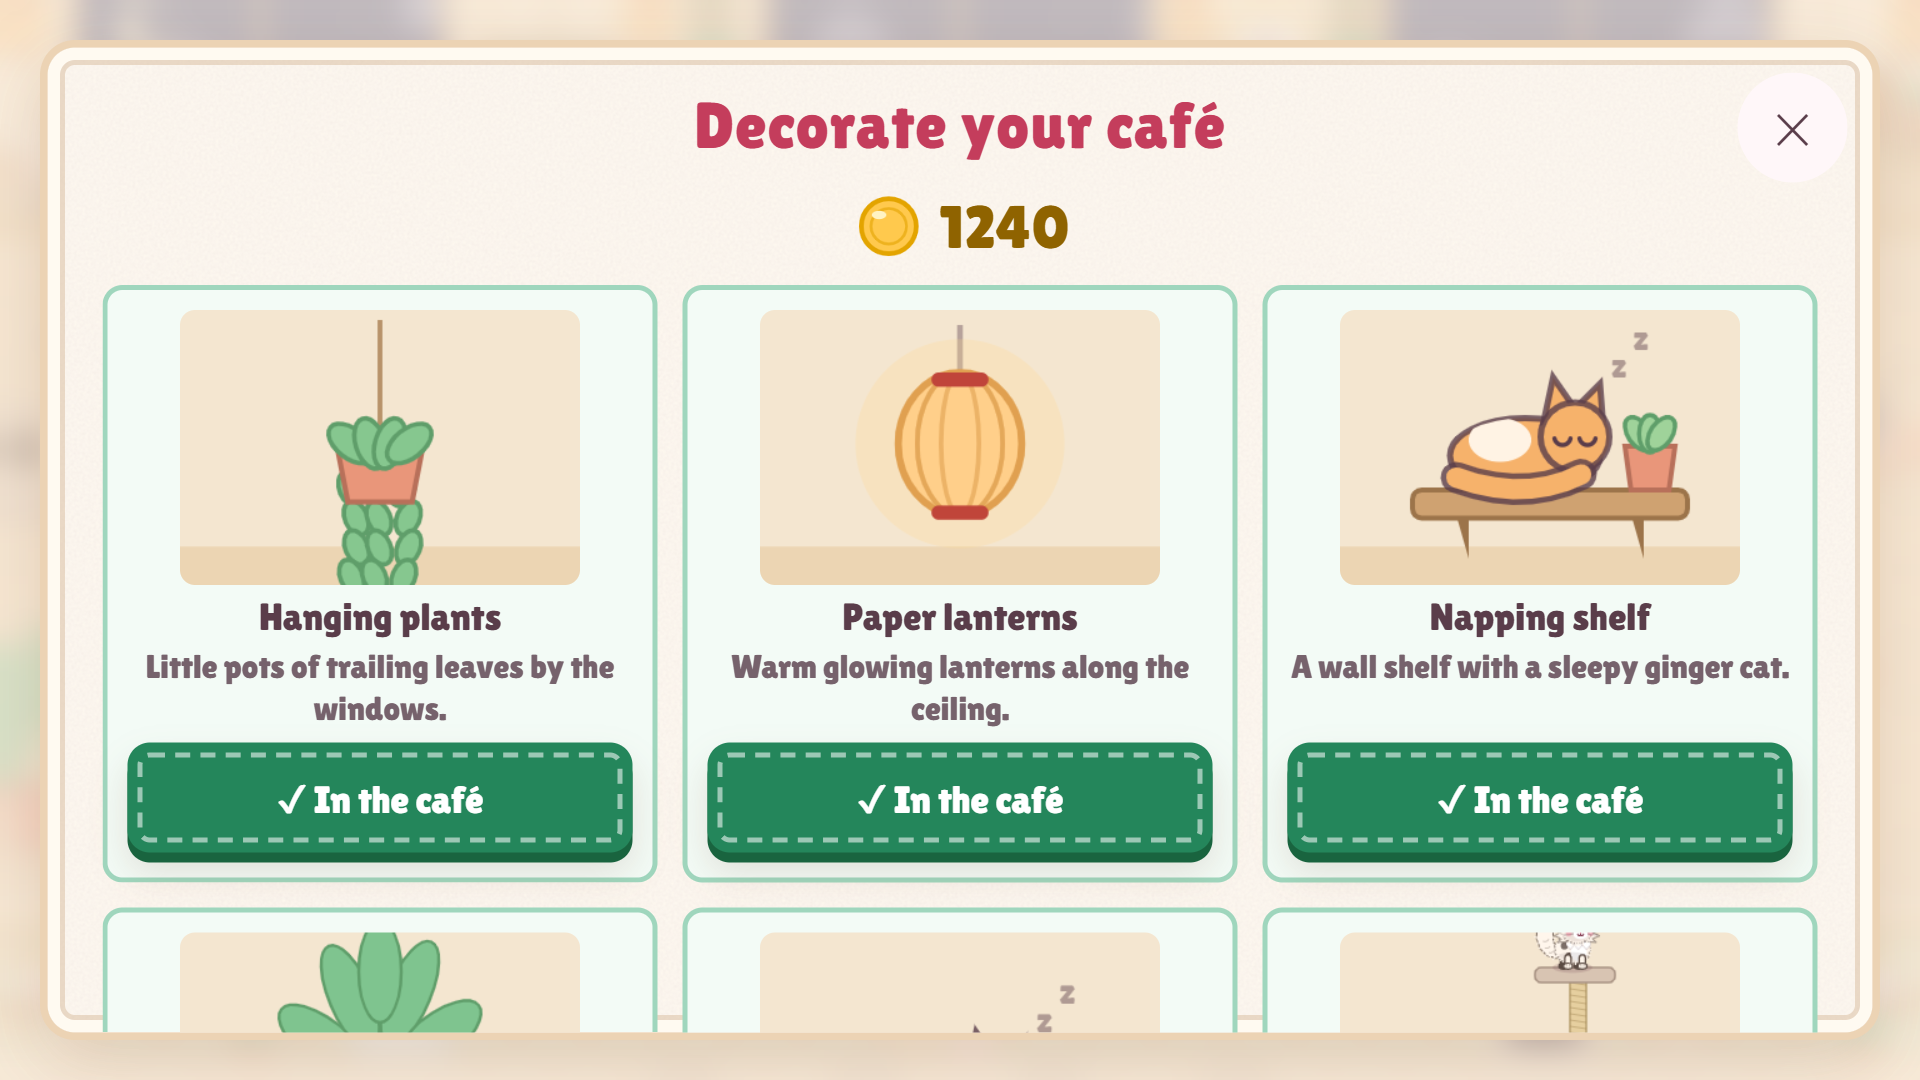
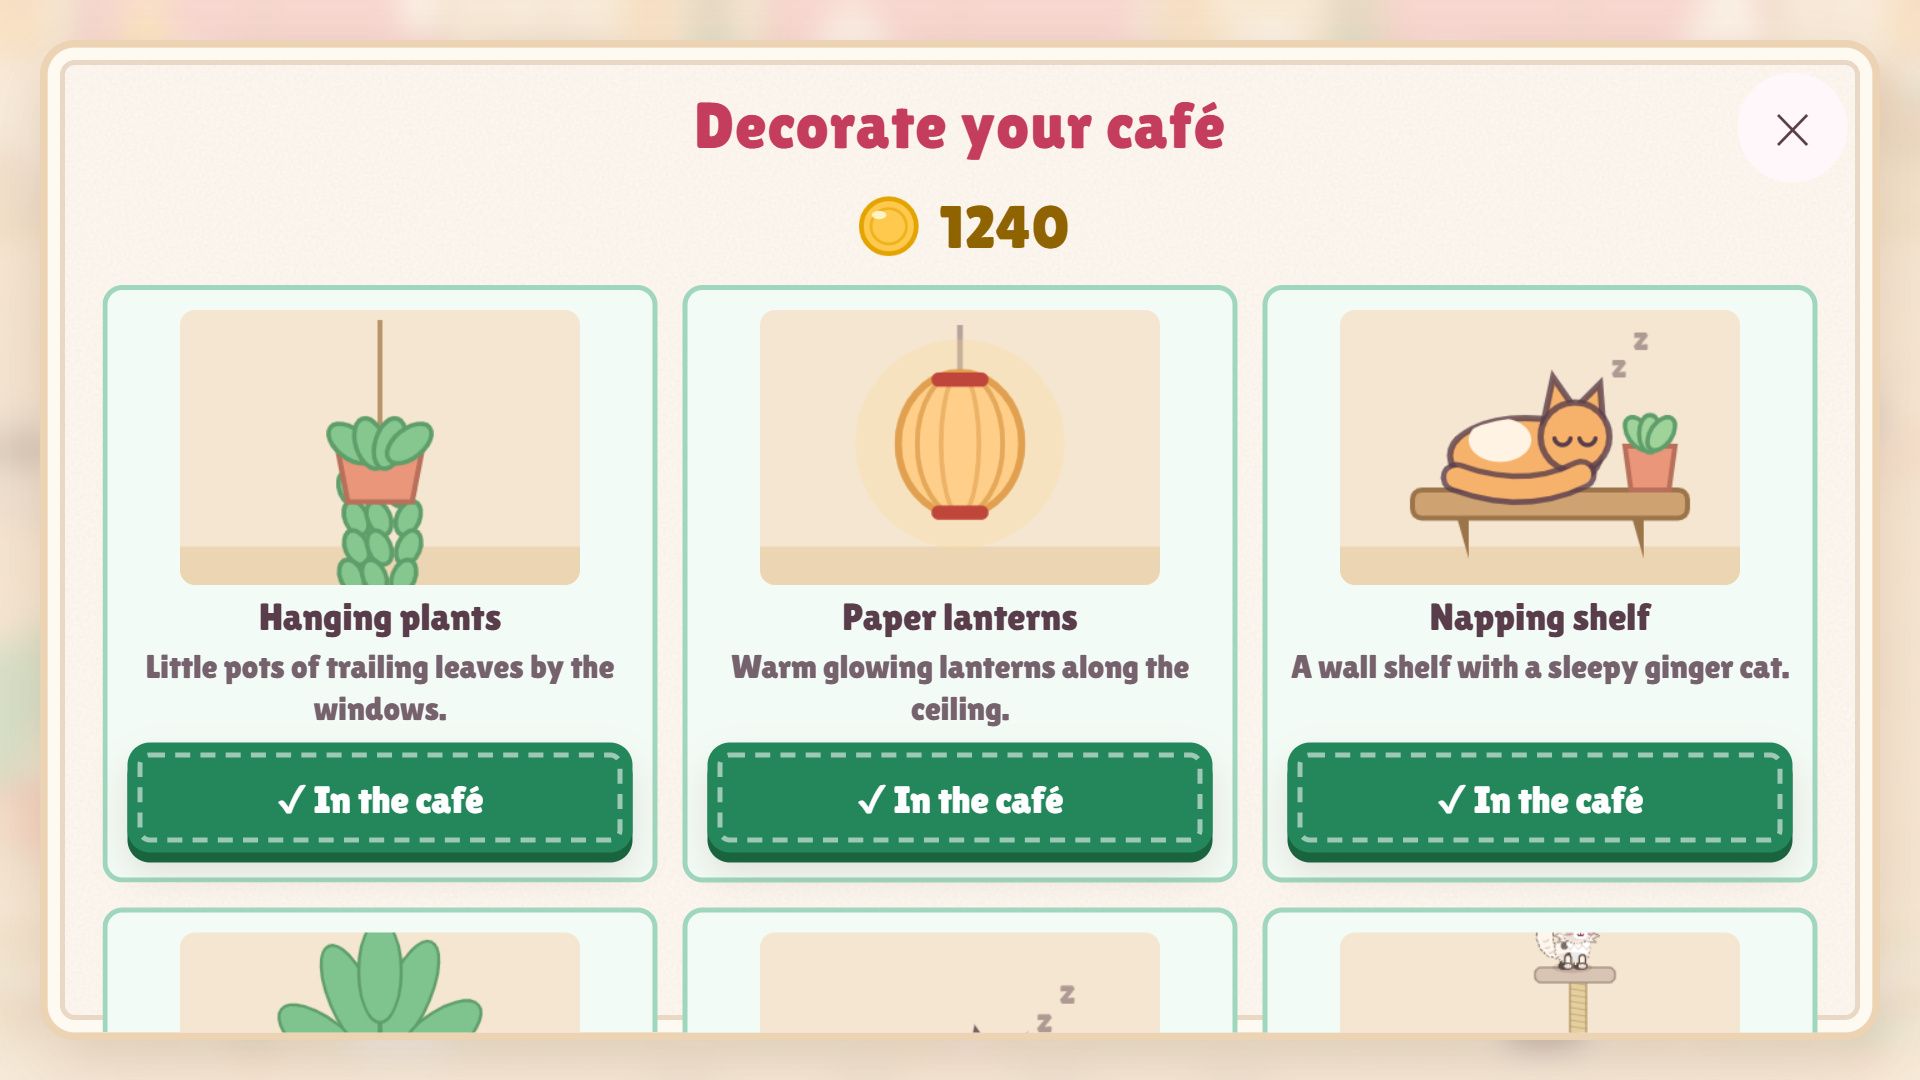
Cats stroll along the street outside, seen through the windows, before coming in the front door and after leaving

Changed region(s): [[0.375, 0.0, 0.625, 0.0611], [0.7188, 0.0, 0.9375, 0.0611], [0.0312, 0.0, 0.25, 0.0611]]

diff --git a/js/npc.js b/js/npc.js
@@ -15,9 +15,13 @@ export class NPC {
     this.look = look;
     this.patience = patience;
     this.timeLeft = patience;
-    this.x = LAYOUT.entry.x;
-    this.y = LAYOUT.entry.y;
-    this.path = [{ ...LAYOUT.door }, ...route(LAYOUT.door, spot, blockers)]; // walks around tables
+    // First a stroll along the street outside (seen through the windows), then in through the front door
+    const st = LAYOUT.street;
+    this.outside = true;
+    this.x = st.from[Math.random() < 0.5 ? 0 : 1];
+    this.y = st.y;
+    this.path = [{ x: LAYOUT.entry.x, y: st.y }];
+    this.indoorPath = [{ ...LAYOUT.door }, ...route(LAYOUT.door, spot, blockers)]; // walks around tables
     // 'entering' -> 'waiting' -> ('eating' ->) 'leaving' -> 'gone'
     this.state = 'entering';
     this.mood = null;            // 'happy' | 'sad' while leaving
@@ -54,7 +58,10 @@ export class NPC {
     this.hintCd = Math.max(0, this.hintCd - dt);
     switch (this.state) {
       case 'entering':
-        if (this.walk(dt)) {
+        if (this.walk(dt) && this.outside) { // reached the front door: step inside
+          this.outside = false;
+          Object.assign(this, { ...LAYOUT.entry, path: this.indoorPath });
+        } else if (!this.path.length) {
           this.state = 'waiting';
           this.arriveT = 0;
           this.squash = 1;
@@ -73,7 +80,12 @@ export class NPC {
         break;
       case 'leaving':
         this.leaveT += dt;
-        if (this.walk(dt)) { this.state = 'gone'; return 'gone'; }
+        if (this.walk(dt)) {
+          if (this.outside) { this.state = 'gone'; return 'gone'; }
+          // out of the front door: stroll off along the street
+          const st = LAYOUT.street;
+          Object.assign(this, { outside: true, x: LAYOUT.entry.x, y: st.y, path: [{ x: st.to[Math.random() < 0.5 ? 0 : 1], y: st.y }] });
+        }
         break;
     }
     return null;

diff --git a/js/scene.js b/js/scene.js
@@ -560,10 +560,10 @@ function skyColor(hour) {
 }
 
 /** Animated windows (clouds, sun/moon, stars, birds), real-time clock, and fairy lights when fancy. */
-export function drawWallLive(ctx, t, sc, now = new Date()) {
+export function drawWallLive(ctx, t, sc, now = new Date(), outside = null) {
   const p = sc.pal, st = sc.stage;
   const sky = skyAt(now);
-  for (const [i, win] of WINDOWS.entries()) { drawPane(ctx, win, i, t, sc, sky); drawWindowFrame(ctx, win, i, sc); }
+  for (const [i, win] of WINDOWS.entries()) { drawPane(ctx, win, i, t, sc, sky, outside); drawWindowFrame(ctx, win, i, sc); }
   // wall clock showing the real time
   const cx = CLOCK_X, cy = 70, m = now.getMinutes() + now.getSeconds() / 60, hr = (now.getHours() % 12) + m / 60;
   circle(ctx, cx, cy, 25); fillStroke(ctx, '#fff', st >= 3 ? '#e3b94f' : p.clockRim, 4);
@@ -583,7 +583,7 @@ export function drawWallLive(ctx, t, sc, now = new Date()) {
 const skyAt = now => { const hour = now.getHours() + now.getMinutes() / 60; return { color: skyColor(hour), night: hour < 6 || hour >= 20.5 }; };
 
 /** The view through one window: sky for the time of day, sun or moon, clouds, birds, seasonal weather. */
-function drawPane(ctx, { x, y, w, h }, i, t, sc, { color: sky, night }) {
+function drawPane(ctx, { x, y, w, h }, i, t, sc, { color: sky, night }, outside) {
   const st = sc.stage;
   ctx.save();
     rrect(ctx, x, y, w, h, 16); ctx.fillStyle = sky; ctx.fill(); ctx.clip();
@@ -634,6 +634,7 @@ function drawPane(ctx, { x, y, w, h }, i, t, sc, { color: sky, night }) {
       ctx.fillStyle = 'rgba(120,95,70,0.22)';
       for (const [dx, dy, rx, ry] of [[40, 70, 34, 16], [130, 30, 28, 12], [160, 80, 24, 14]]) { ellipse(ctx, x + dx, y + dy, rx, ry); ctx.fill(); }
     }
+    outside?.(); // cats strolling along the street, behind the glass
   ctx.restore();
 }
 

diff --git a/js/game.js b/js/game.js
@@ -699,10 +699,10 @@ function render(time) {
   ctx.drawImage(bg, ox, oy, WORLD.W * scale, WORLD.H * scale);
   ctx.setTransform(dpr * scale, 0, 0, dpr * scale, dpr * ox, dpr * oy);
 
-  const { player: p, npcs, inventory: inv } = gm;
+  const { player: p, inventory: inv } = gm, npcs = gm.npcs.filter(n => !n.outside);
   ctx.save();
   ctx.beginPath(); ctx.rect(0, -200, WORLD.W, WORLD.H + 400); ctx.clip(); // cats outside the walls stay hidden until they reach the door
-  drawWallLive(ctx, time, scene);
+  drawWallLive(ctx, time, scene, undefined, () => drawStreet(time));
   const door = doorOpenness(npcs);
   if (door > 0.08 && lastDoor <= 0.08) audio.play('bell'); // ding-ding as the door starts to open
   lastDoor = door;
@@ -785,6 +785,16 @@ function render(time) {
 
   ctx.restore();
   if (debug.on) drawDebug();
+}
+
+/** Cats out on the street, a little smaller (further away): only their heads and shoulders show above the sills. */
+function drawStreet(time) {
+  for (const n of gm.npcs) {
+    if (!n.outside) continue;
+    ctx.save(); ctx.translate(n.x, n.y); ctx.scale(0.8, 0.8);
+    drawCat(ctx, 0, 0, n.look, { state: 'walk', t: time + n.phase, facing: n.facing });
+    ctx.restore();
+  }
 }
 
 let lastDoor = 0;

diff --git a/js/config.js b/js/config.js
@@ -37,6 +37,9 @@ export const LAYOUT = {
   walk: { minX: 26, maxX: 1094, minY: 248, maxY: KITCHEN_Y - 28 }, // where the player may stand (up to the kitchen counter)
   playerStart: { x: 560, y: 500 },
   entry: { x: 325, y: 178 },  // NPCs step out of the front door in the back wall (scene.js FRONT_DOOR)
+  // The street outside: arriving cats stroll to the door along it and leaving cats stroll away,
+  // seen head and shoulders through the windows. `from` = where arrivals start, `to` = where leavers vanish.
+  street: { y: 142, from: [-40, 720], to: [-40, 1160] },
   door: { x: 325, y: 240 },   // first waypoint, just in front of the door
   exit: { x: 325, y: 178 },   // NPCs are removed after walking back through it
   windowBar: { x: 380, y: 168, w: 360, h: 54 },

diff --git a/service-worker.js b/service-worker.js
@@ -1,6 +1,6 @@
 // Offline support: precache the app shell, then network-first with cache fallback.
 // BUMP CACHE when you deploy so players get the new files.
-const CACHE = 'hungrykatz-v87';
+const CACHE = 'hungrykatz-v88';
 const ASSETS = [
   './',
   './index.html',
